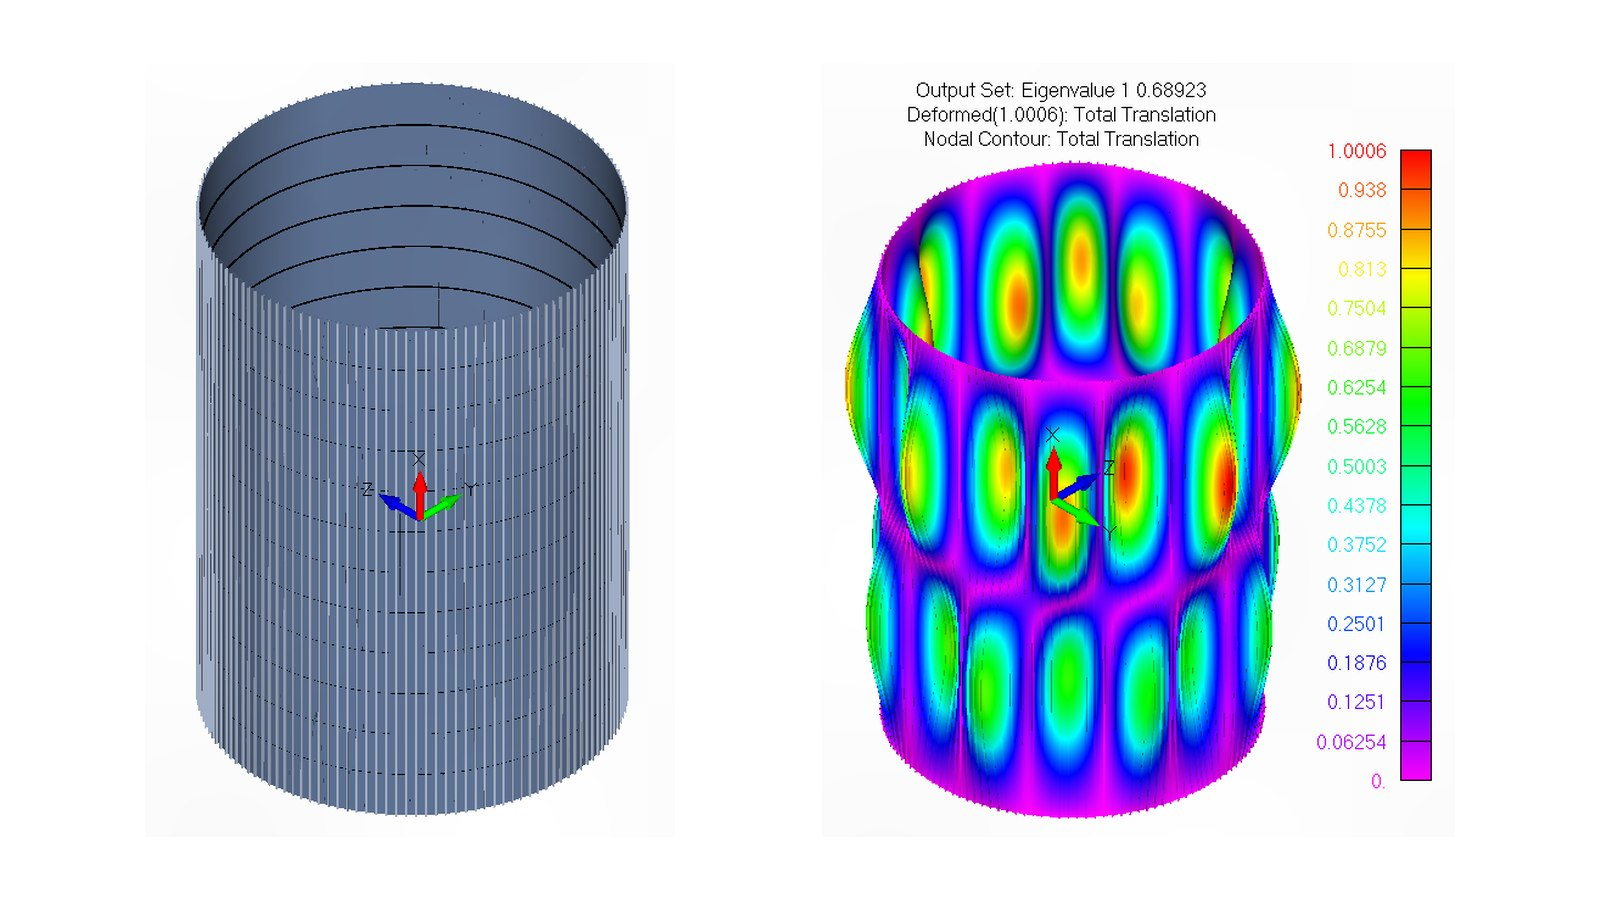
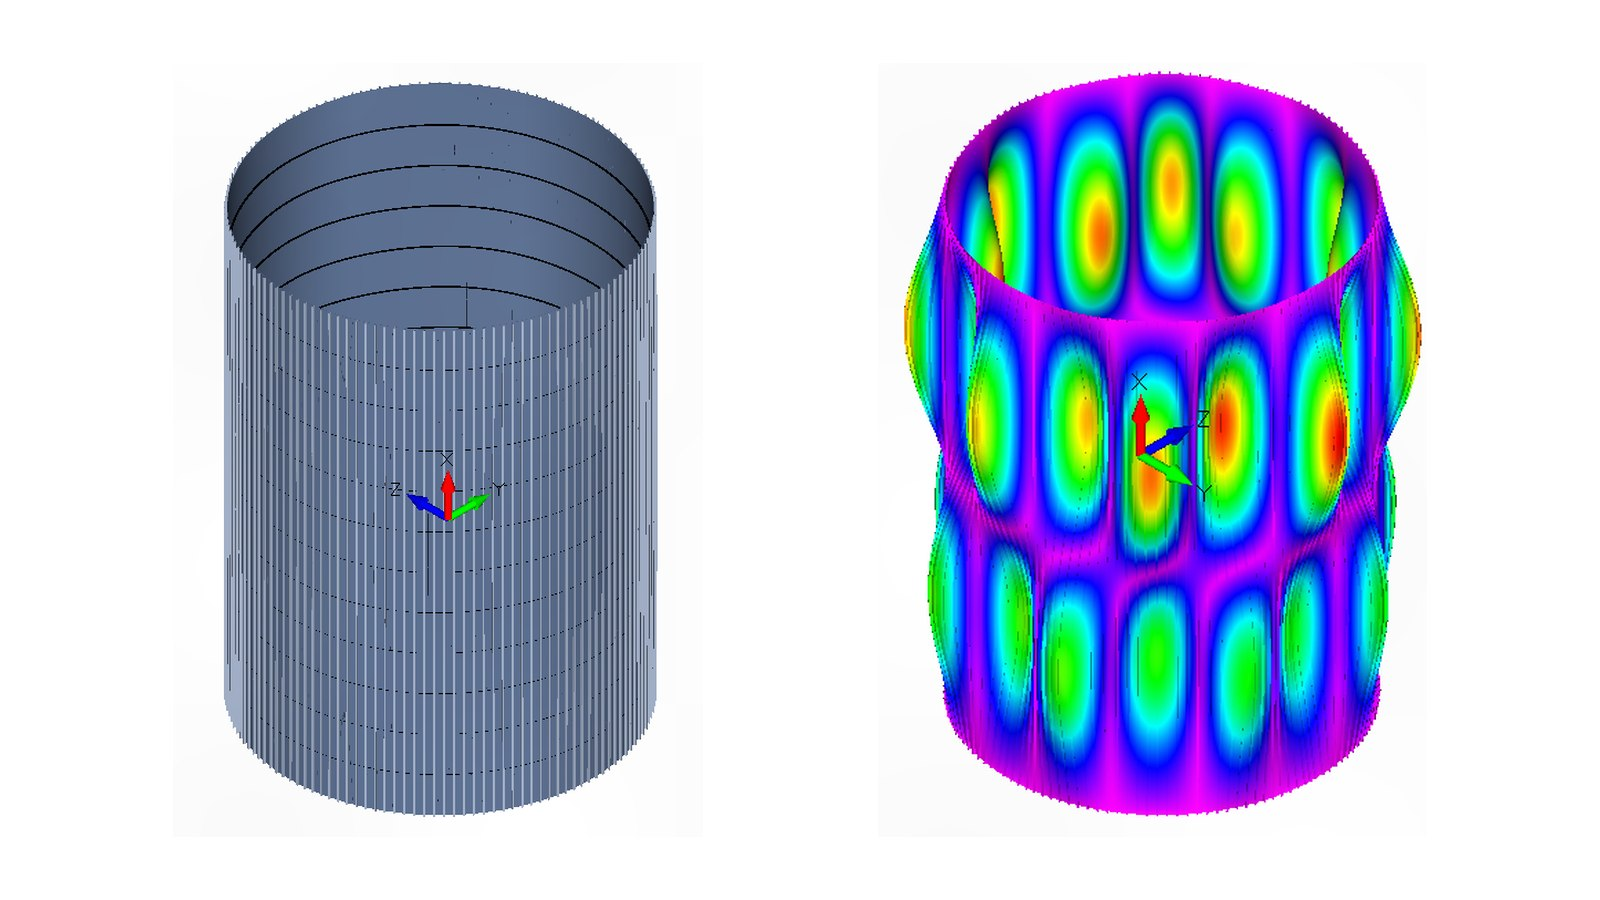
Remove exact result values; add two more thesis simulation cards
Full stage-interface assembly nonlinear FEM and imperfection-seeded
post-buckling analysis, with figures cropped to exclude numeric results.

diff --git a/index.html b/index.html
@@ -376,9 +376,45 @@
           <h3>CFRP Interstage — Structural Optimization</h3>
           <p>Python-based parametric optimization of a stiffened CFRP interstage under axial
           compression. Classical Laminate Theory, NASA SP-8007 knock-down factors and Bruhn
-          local panel checks, validated with linear and nonlinear (SOL 106) FEM in
-          FEMAP / NX Nastran. Final design: 165 kg at 2674 kN KDF-adjusted buckling capacity,
-          within ~10% of analytical prediction.</p>
+          local panel checks, validated with linear and nonlinear FEM in
+          FEMAP / NX Nastran. The optimization converged on a lightweight stiffened
+          configuration with close correlation between analytical and FEM-predicted
+          buckling capacity.</p>
+          <div class="proj-foot"><b>Master's Thesis</b> — Rocket Factory Augsburg · 2024–2025</div>
+        </div>
+      </article>
+
+      <article class="proj reveal">
+        <div class="proj-media">
+          <img src="img/assembly-fem.jpg" alt="Annotated full-scale FEM model of the launch vehicle interface assembly and its nonlinear deformation result" loading="lazy">
+        </div>
+        <div class="proj-body">
+          <div class="proj-top"><span class="proj-num">02</span>
+            <div class="proj-tags"><span>Assembly FEM</span><span>Interfaces</span><span>Nonlinear</span></div></div>
+          <h3>Full Stage-Interface Assembly — Nonlinear FEM</h3>
+          <p>Extension of the isolated shell analysis to the full launch-vehicle interface:
+          CFRP interstage, aluminum separation flanges, steel integration skirt and the
+          stage-1 tank dome, tied together with RBE2 connections. Nonlinear collapse
+          analysis under combined axial compression and internal tank pressure showed how
+          realistic boundary conditions change the buckling behavior versus the
+          isolated shell.</p>
+          <div class="proj-foot"><b>Master's Thesis</b> — Rocket Factory Augsburg · 2024–2025</div>
+        </div>
+      </article>
+
+      <article class="proj reveal">
+        <div class="proj-media">
+          <img src="img/nonlinear-buckling.jpg" alt="FEM mesh of the stiffened composite shell and nonlinear post-buckling deformation pattern" loading="lazy">
+        </div>
+        <div class="proj-body">
+          <div class="proj-top"><span class="proj-num">03</span>
+            <div class="proj-tags"><span>SOL 106</span><span>Imperfections</span><span>Post-buckling</span></div></div>
+          <h3>Nonlinear Buckling with Geometric Imperfections</h3>
+          <p>Post-buckling behavior of both stiffener concepts analyzed with nonlinear
+          static solutions (SOL 106), seeding initial geometric imperfections derived from
+          the first eigenmode. The deformation follows classical shell-instability
+          patterns; comparing imperfection-sensitive FEM capacity against knock-down-factor
+          predictions validated the analytical design approach.</p>
           <div class="proj-foot"><b>Master's Thesis</b> — Rocket Factory Augsburg · 2024–2025</div>
         </div>
       </article>
@@ -389,7 +425,7 @@
           <span class="ph-text">Analysis views — coming soon</span>
         </div>
         <div class="proj-body">
-          <div class="proj-top"><span class="proj-num">02</span>
+          <div class="proj-top"><span class="proj-num">04</span>
             <div class="proj-tags"><span>FEM</span><span>Cryogenics</span><span>Loads</span></div></div>
           <h3>LOX Tunnel &amp; Launch Vehicle Hardware Analysis</h3>
           <p>FEM analysis of a LOX tunnel under axial and radial pressure — dome inversion risk
@@ -406,7 +442,7 @@
           <span class="ph-text">Fabrication photos — coming soon</span>
         </div>
         <div class="proj-body">
-          <div class="proj-top"><span class="proj-num">03</span>
+          <div class="proj-top"><span class="proj-num">05</span>
             <div class="proj-tags"><span>Filament winding</span><span>CFRP</span><span>Hands-on</span></div></div>
           <h3>Filament-Wound Rocket Outer Shell</h3>
           <p>Design and fabrication of a filament-wound CFRP outer shell for a sounding rocket:
@@ -423,7 +459,7 @@
           <span class="ph-text">Concept views — coming soon</span>
         </div>
         <div class="proj-body">
-          <div class="proj-top"><span class="proj-num">04</span>
+          <div class="proj-top"><span class="proj-num">06</span>
             <div class="proj-tags"><span>Systems</span><span>Mission concept</span><span>DLR</span></div></div>
           <h3>Main Belt Comet Micro-Lander — System Study</h3>
           <p>Baseline concept selection for a small-body lander carrying a model payload.
@@ -440,7 +476,7 @@
           <span class="ph-text">Prototype photos — coming soon</span>
         </div>
         <div class="proj-body">
-          <div class="proj-top"><span class="proj-num">05</span>
+          <div class="proj-top"><span class="proj-num">07</span>
             <div class="proj-tags"><span>Design</span><span>Fabrication</span><span>Prototype</span></div></div>
           <h3>Four-Wheel Steering — Working Prototype</h3>
           <p>Bachelor project: designed and built a working prototype with front-, rear- and
@@ -457,7 +493,7 @@
           <span class="ph-text">CATIA models — in progress</span>
         </div>
         <div class="proj-body">
-          <div class="proj-top"><span class="proj-num">06</span>
+          <div class="proj-top"><span class="proj-num">08</span>
             <div class="proj-tags"><span>CATIA</span><span>Assemblies</span><span>Drafting</span></div></div>
           <h3>CAD Design Portfolio — CATIA Projects</h3>
           <p>A growing set of CATIA part and assembly projects — parametric modelling, fully
@@ -487,7 +523,7 @@
             <li>Parametric optimization framework (Python) for stiffened CFRP interstage shells under axial compression.</li>
             <li>Analytical stability via CLT, NASA SP-8007 knock-down factors and Bruhn local panel buckling.</li>
             <li>Linear eigenvalue and nonlinear SOL 106 FEM in FEMAP / NX Nastran with geometric imperfections.</li>
-            <li>Selected a 165 kg optimized configuration and evaluated full-assembly interface effects.</li>
+            <li>Selected an optimized lightweight configuration and evaluated full-assembly interface effects.</li>
           </ul>
         </div>
       </div>